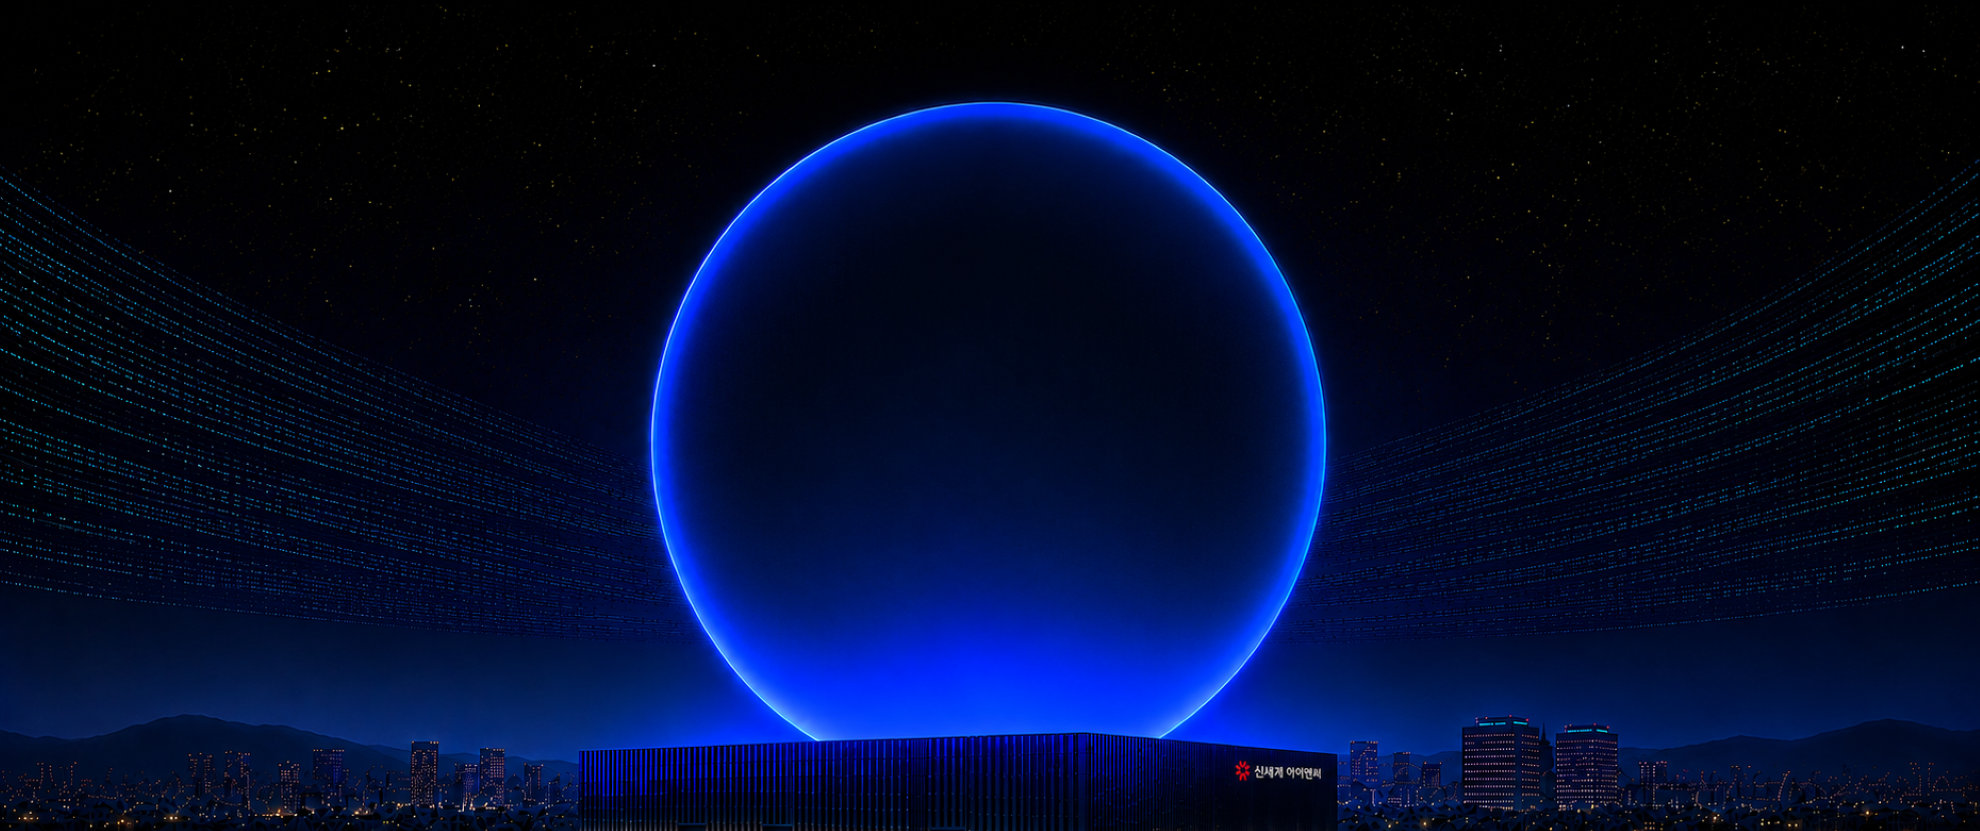
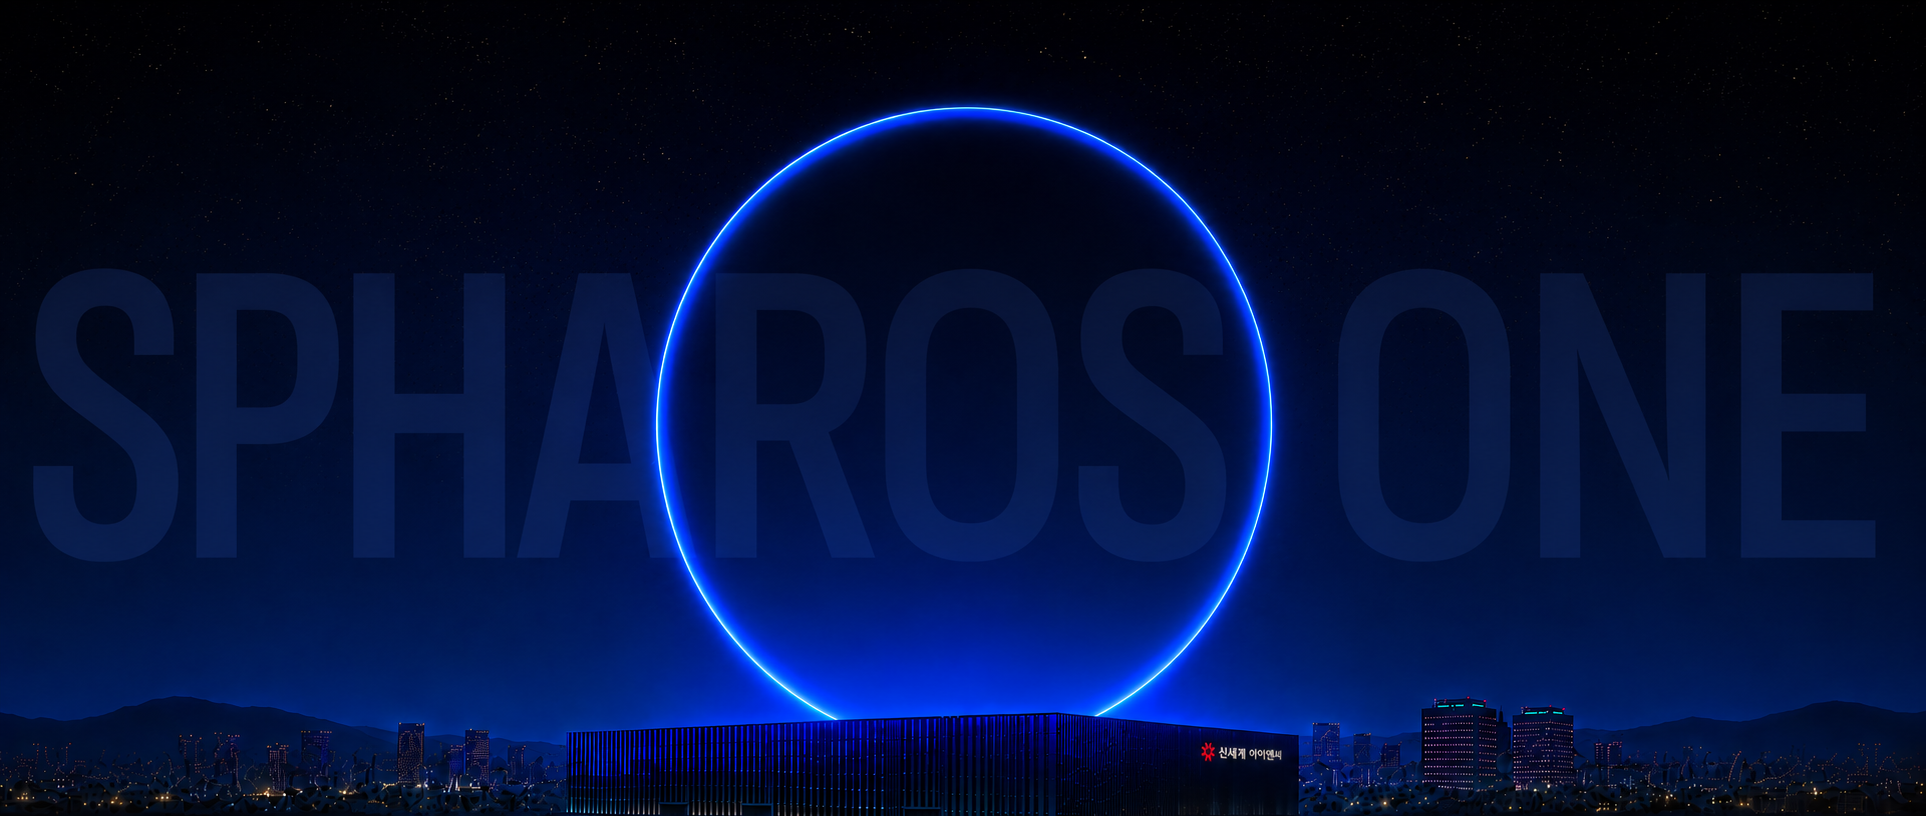
StoryBridgeSection overlay: 30% → 50% opacity

diff --git a/out/index.html b/out/index.html
@@ -18,7 +18,7 @@
     <link rel="stylesheet" as="style" crossorigin href="https://cdn.jsdelivr.net/gh/orioncactus/pretendard@v1.3.9/dist/web/static/pretendard.min.css">
     <link rel="stylesheet" href="https://cdnjs.cloudflare.com/ajax/libs/font-awesome/6.4.0/css/all.min.css">
     <link rel="stylesheet" href="https://cdnjs.cloudflare.com/ajax/libs/remixicon/4.5.0/remixicon.min.css">
-    <script type="module" crossorigin src="/assets/index-Bj8lLLMu.js"></script>
+    <script type="module" crossorigin src="/assets/index-iD9jIjw4.js"></script>
     <link rel="stylesheet" crossorigin href="/assets/index-BNFIB25G.css">
   </head>
   <body>

diff --git a/src/pages/home/components/StoryBridgeSection.tsx b/src/pages/home/components/StoryBridgeSection.tsx
@@ -29,7 +29,7 @@ export default function StoryBridgeSection() {
         style={{
           position: 'absolute',
           inset: 0,
-          background: 'rgba(0,0,0,0.30)',
+          background: 'rgba(0,0,0,0.50)',
         }}
       />
       {/* 상단 페이드 — 히어로 섹션과 자연스럽게 연결 */}